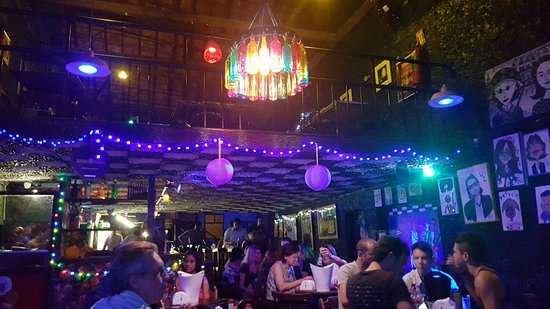
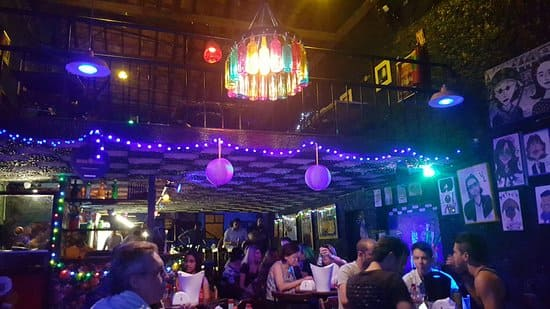
feat: correções de formato de imagem e ajuste de perfomance

diff --git a/indexusuario.html b/indexusuario.html
@@ -1,35 +1,49 @@
 <!DOCTYPE html>
-<html>
+<html lang="pt-BR">
   <head>
     <title>Rainbow Connect</title>
     <meta charset="utf-8" />
-    <meta
-      name="viewport"
-      content="width=device-width, initial-scale=1, user-scalable=no"
-    />
-    <link rel="stylesheet" href="html5up-dopetrope/assets/css/main.css" />
+    <meta name="viewport" content="width=device-width, initial-scale=1" />
+
+
+    <!-- Pré-carregamento de imagens críticas -->
+    <link rel="preload" href="html5up-dopetrope/images/logosemfundo.webp" as="image">
+    <link rel="preload" href="html5up-dopetrope/images/logo2.webp" as="image">
+
+    <!-- Estilos -->
+    <link rel="stylesheet" href="html5up-dopetrope/assets/css/main.css" media="print" onload="this.onload=null;this.removeAttribute('media');">
+    <noscript><link rel="stylesheet" href="html5up-dopetrope/assets/css/main.css"></noscript>
+    
     <link rel="stylesheet" href="html5up-dopetrope/assets/css/acessibilidade.css">
     <link rel="icon" href="html5up-dopetrope/assets/favicon_io/favicon-32x32.png">
+
+    <!-- Fontes e Ícones -->
+    <link rel="preconnect" href="https://fonts.googleapis.com">
+    <link rel="preconnect" href="https://cdnjs.cloudflare.com">
+    <link rel="preconnect" href="https://cdn.jsdelivr.net">
+    
     <link rel="stylesheet" href="https://cdn.jsdelivr.net/npm/bootstrap-icons/font/bootstrap-icons.css">
     <link rel="stylesheet" href="https://cdnjs.cloudflare.com/ajax/libs/font-awesome/6.4.2/css/all.min.css">
+
   </head>
   <body class="homepage is-preload">
-        
-    <button id="acessibilidadeBtn" class="acessibilidade-btn">
+    
+    <!-- Botão de acessibilidade -->
+    <button id="acessibilidadeBtn" class="acessibilidade-btn" aria-label="Abrir menu de acessibilidade">
       <i class="fa-solid fa-wheelchair"></i>
-  </button>
-  
-  <!-- Menu de Acessibilidade -->
-  <div id="acessibilidadeMenu" class="acessibilidade-menu">
+      <span class="sr-only">Menu de acessibilidade</span>
+    </button>
+    
+
+    <!-- Menu de Acessibilidade -->
+    <div id="acessibilidadeMenu" class="acessibilidade-menu">
       <h3>Acessibilidade</h3>
       <button onclick="aumentarFonte()">Aumentar Fonte</button>
       <button onclick="diminuirFonte()">Diminuir Fonte</button>
       <button onclick="modoAltoContraste()">Alto Contraste</button>
       <button onclick="ativarLeitorDeTela()">Leitor de Tela</button>
       <button onclick="resetarAcessibilidade()">Redefinir</button>
-  </div>
-  
-    <div id="page-wrapper">
+    </div>
        
        <section id="header" style="background-color: #302F90;">
         <h1 style="color: aliceblue; margin: 24px;">Visite Lugares que Celebram Você!</h1>
@@ -37,13 +51,14 @@
         <section id="banner">
       
           <nav class="menu-banner">
-              <a href="#main">Categorias</a>
-              <a href="#footer">Eventos</a>
-              <a href="#major">Sobre</a>
+            <a href="#main" aria-label="Ir para a seção de categorias">Categorias</a>
+            <a href="#footer" aria-label="Ir para a seção de eventos">Eventos</a>
+            <a href="#major" aria-label="Ir para a seção sobre">Sobre</a>
+            
           </nav>
       
           <div class="logo-container">
-              <img src="html5up-dopetrope/images/logosemfundo.png" alt="Rainbow Connect Logo" class="logo">
+              <img src="html5up-dopetrope/images/logosemfundo.webp" alt="Rainbow Connect Logo" class="logo">
           </div>
       </section>
       
@@ -60,7 +75,7 @@
                   <div class="col-4 col-6-medium col-12-small">
                     <section class="box">
                       <a href="#" class="image featured"
-                        ><img src="html5up-dopetrope/images/metrologo.png" alt="logo de boate"
+                        ><img src="html5up-dopetrope/images/metrologo.webp" alt="logo de boate"
                       /></a>
                       <header>
                         <h3>Boates</h3>
@@ -80,7 +95,7 @@
                   <div class="col-4 col-6-medium col-12-small">
                     <section class="box">
                       <a href="#" class="image featured"
-                        ><img src="html5up-dopetrope/images/bares.jpg" alt="imagem de bares"
+                        ><img src="html5up-dopetrope/images/bares.webp" alt="imagem de bares"
                       /></a>
                       <header>
                         <h3>Bares</h3>
@@ -91,7 +106,7 @@
                       <footer>
                         <ul class="actions">
                           <li>
-                            <a href="#" class="button alt">Ver Sugestões</a>
+                            <a href="#" class="button alt" style="color: white; background-color: #0073e6; border: 2px solid white;">Ver sugestões</a>
                           </li>
                         </ul>
                       </footer>
@@ -100,7 +115,7 @@
                   <div class="col-4 col-6-medium col-12-small">
                     <section class="box">
                       <a href="#" class="image featured"
-                        ><img src="html5up-dopetrope/images/restaurante.jpg" alt="imagem de um restaurante"
+                        ><img src="html5up-dopetrope/images/restaurante.webp" alt="imagem de um restaurante"
                       /></a>
                       <header>
                         <h3>Restaurantes</h3>
@@ -111,7 +126,8 @@
                       <footer>
                         <ul class="actions">
                           <li>
-                            <a href="#" class="button alt">Ver Sugestões</a>
+                            <a href="#" class="button alt" style="color: white; background-color: #0073e6; border: 2px solid white;">Ver sugestões</a>
+
                           </li>
                         </ul>
                       </footer>
@@ -120,7 +136,7 @@
                   <div class="col-4 col-6-medium col-12-small">
                     <section class="box">
                       <a href="#" class="image featured"
-                        ><img src="html5up-dopetrope/images/hoteis.jpg" alt="imagem de hotel"
+                        ><img src="html5up-dopetrope/images/hoteis.webp" alt="imagem de hotel"
                       /></a>
                       <header>
                         <h3>Hotéis</h3>
@@ -131,7 +147,8 @@
                       <footer>
                         <ul class="actions">
                           <li>
-                            <a href="#" class="button alt">Ver Sugestões</a>
+                            <a href="#" class="button alt" style="color: white; background-color: #0073e6; border: 2px solid white;">Ver sugestões</a>
+
                           </li>
                         </ul>
                       </footer>
@@ -140,7 +157,7 @@
                   <div class="col-4 col-6-medium col-12-small">
                     <section class="box">
                       <a href="#" class="image featured"
-                        ><img src="html5up-dopetrope/images/festas.jpg" alt="imagem generica de festa"
+                        ><img src="html5up-dopetrope/images/festas.webp" alt="imagem generica de festa"
                       /></a>
                       <header>
                         <h3>Festas Independentes</h3>
@@ -151,7 +168,8 @@
                       <footer>
                         <ul class="actions">
                           <li>
-                            <a href="#" class="button alt">Ver Sugestões</a>
+                            <a href="#" class="button alt" style="color: white; background-color: #0073e6; border: 2px solid white;">Ver sugestões</a>
+
                           </li>
                         </ul>
                       </footer>
@@ -160,7 +178,7 @@
                   <div class="col-4 col-6-medium col-12-small">
                     <section class="box">
                       <a href="#" class="image featured"
-                        ><img src="html5up-dopetrope/images/cafes.jpg" alt="imagem de um café"
+                        ><img src="html5up-dopetrope/images/cafes.webp" alt="imagem de um café"
                       /></a>
                       <header>
                         <h3>Cafés</h3>
@@ -171,7 +189,8 @@
                       <footer>
                         <ul class="actions">
                           <li>
-                            <a href="#" class="button alt">Ver Sugestões</a>
+                            <a href="#" class="button alt" style="color: white; background-color: #0073e6; border: 2px solid white;">Ver sugestões</a>
+
                           </li>
                         </ul>
                       </footer>
@@ -190,7 +209,7 @@
                   <div class="col-6 col-12-small">
                     <section class="box">
                       <a href="#" class="image featured"
-                        ><img src="html5up-dopetrope/images/metropole-4.jpg" alt="imagem da entrada da metropole"
+                        ><img src="html5up-dopetrope/images/metropole-4.webp" alt="imagem da entrada da metropole"
                       /></a>
                       <header>
                         <h3>Boate Metrópole</h3>
@@ -222,7 +241,7 @@ JC
                   <div class="col-6 col-12-small">
                     <section class="box">
                       <a href="#" class="image featured"
-                        ><img src="html5up-dopetrope/images/conchittas.jpg" alt="imagem da entrada do bar conchittas"
+                        ><img src="html5up-dopetrope/images/conchittas.webp" alt="imagem da entrada do bar conchittas"
                       /></a>
                       <header>
                         <h3>Conchittas Bar</h3>
@@ -311,7 +330,7 @@ JC
                   <h2>Um pouco do Rainbow Connect</h2>
                 </header>
                 <a href="#" class="image featured"
-                  ><img src="html5up-dopetrope/images/logo2.png" alt="logo do rainbow connect"
+                  ><img src="html5up-dopetrope/images/logo2.webp" alt="logo do rainbow connect"
                 /></a>
                 <p>
                   O Rainbow Connect nasceu em um hackathon com o propósito de impulsionar empreendimentos LGBTQIAPN+. <br> Com uma equipe de quatro integrantes, o projeto foi desenvolvido com foco na inclusão, explorando um setor muitas vezes negligenciado: o turismo. <br> Afinal, essa é uma das maiores fontes de renda e oportunidades, merecendo mais visibilidade e acessibilidade para a comunidade.
